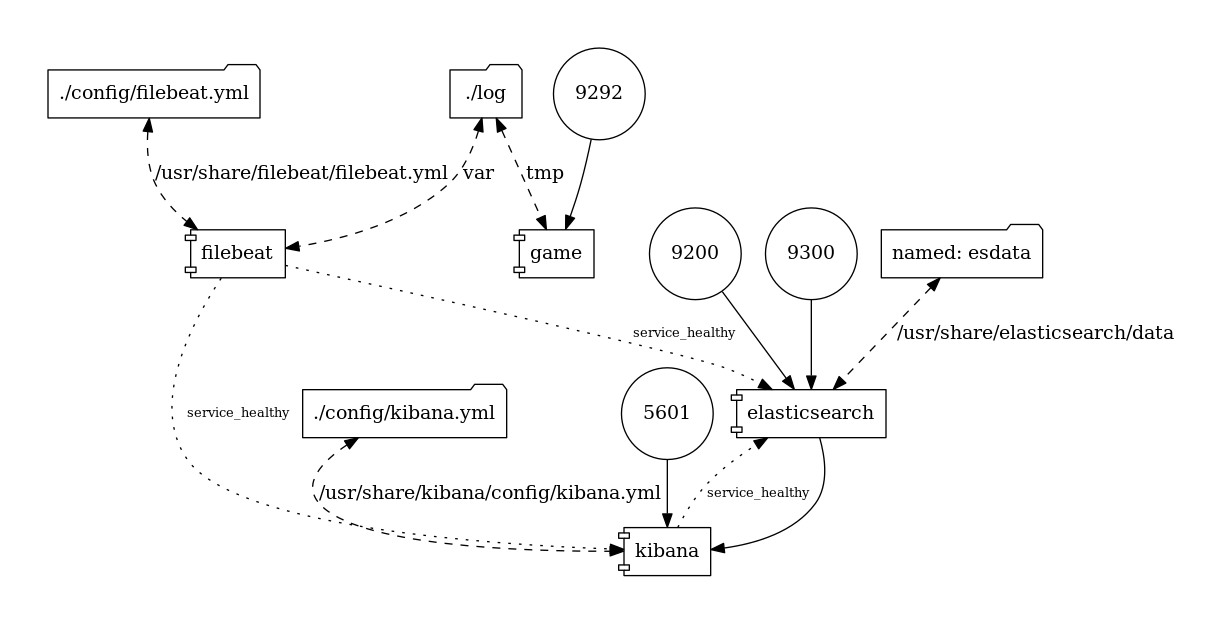
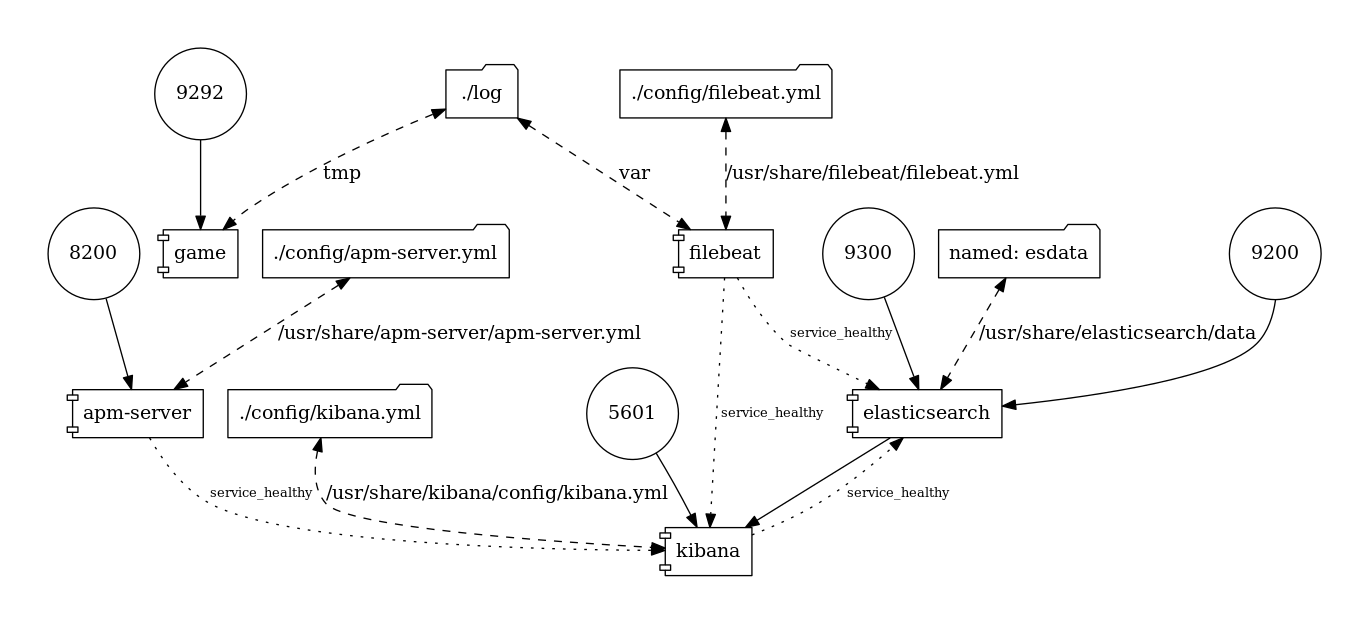
Configure Elastic APM

diff --git a/game/config/boot.rb b/game/config/boot.rb
@@ -5,5 +5,7 @@ Bundler.require
 require 'ougai'
 @@logger = Ougai::Logger.new('/tmp/log/bandit.log')
 
+
+
 require './app/app.rb'
 

diff --git a/README.md b/README.md
@@ -23,6 +23,7 @@ Ensuring the following ports are free on the host, as they are mounted by the co
     - `5601` (Kibana)
     - `9200,9300` (Elasticsearch)
     - `9292` (Bandit application)
+    - `8200` (APM server)
 
 ### Supported versions
 
